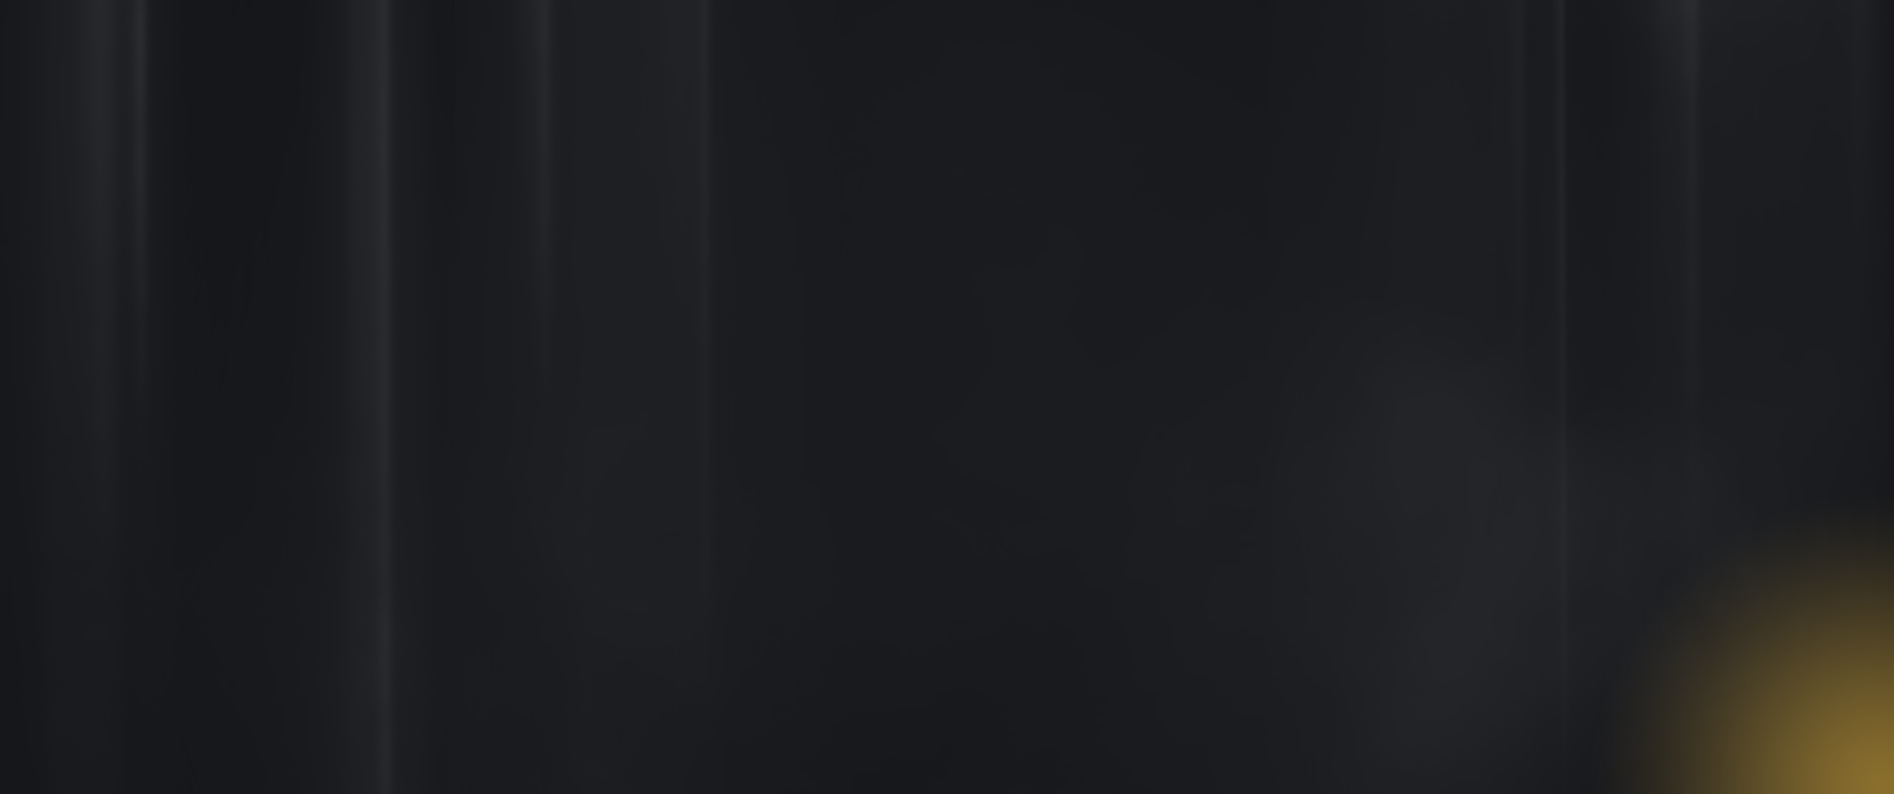
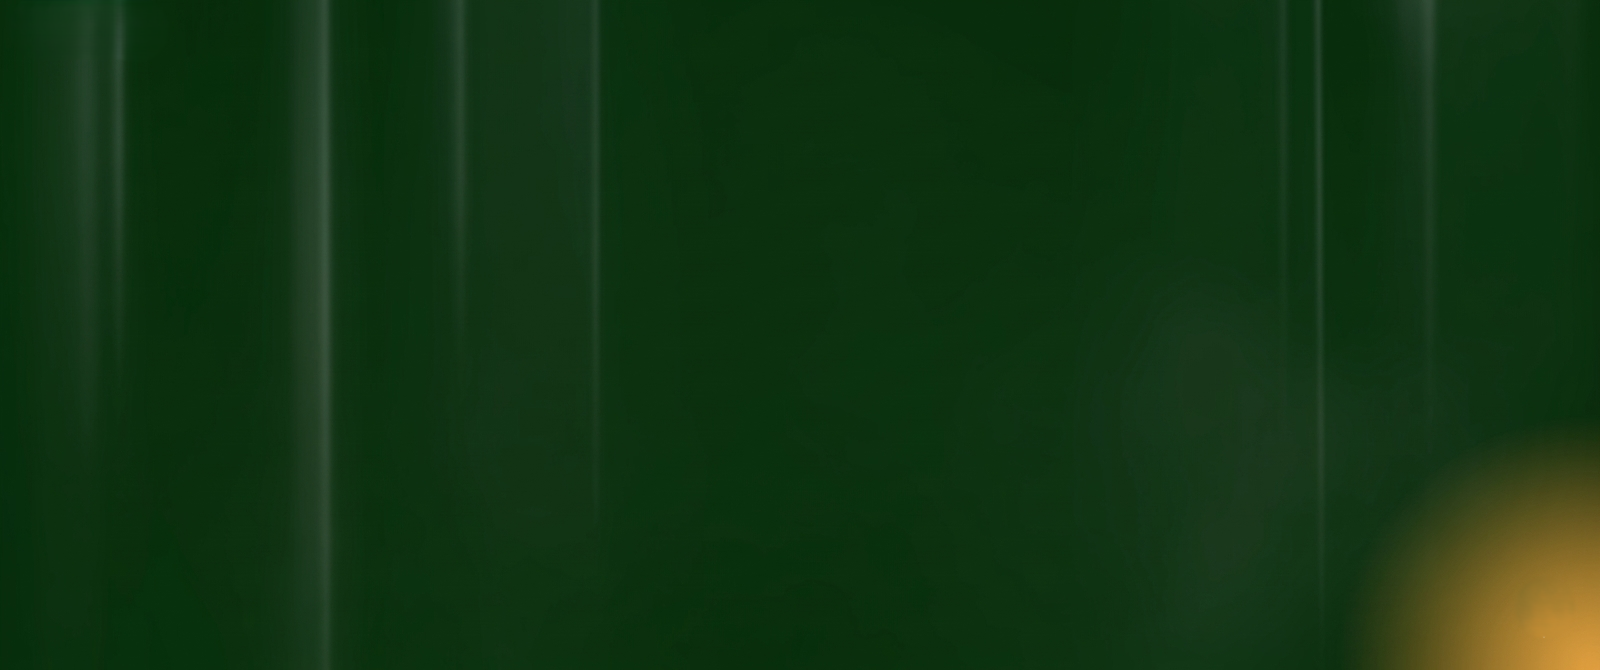
updated

diff --git a/index.html b/index.html
@@ -320,9 +320,10 @@
                         <div class="client-carousel__one cilox-owl__carousel owl-theme owl-carousel" data-owl-options='{
                         "items": 5,
                         "margin": 65,
-                        "smartSpeed": 700,
+                        "smartSpeed": 500,
                         "loop":true,
-                        "autoplay": false,
+                        "autoplay": true,
+                        "autoplayTimeout": 1000,
                         "nav":false,
                         "dots":false,
                         "navText": ["<span class=\"icon-left-arrow\"></span>","<span class=\"icon-right-arrow\"></span>"],
@@ -422,7 +423,7 @@
                                 </div>
 
                                 <h3 class="service-two-card__title">
-                                    <a href="campaigns.html">Government <br> Campaigns</a>
+                                    <a href="govtcampaigns.html">Government <br> Campaigns</a>
                                 </h3>
 
                                 <p class="service-two-card__text">
@@ -436,7 +437,7 @@
                                     <li><i class="fas fa-arrow-circle-right"></i> Policy Promotion & Department Campaigns</li>
                                 </ul>
 
-                                <a href="campaigns.html" class="cilox-btn">
+                                <a href="govtcampaigns.html" class="cilox-btn">
                                     <span class="cilox-btn__container">
                                         <span class="cilox-bt__text">Explore Service</span>
                                     </span>
@@ -522,7 +523,7 @@
                                             <div class="why-choose__item__icon">
                                                 <i class="icon-tick"></i>
                                             </div>
-                                            <h4 class="why-choose__item__title">Public Sector Campaign Expertise</h4>
+                                            <h4 class="why-choose__item__title">Public Sector Campaign </h4>
                                         </div>
                                         <p class="why-choose__item__text">
                                             We bring proven experience working across government departments, public sector
@@ -652,7 +653,7 @@
                                     </div>
                                     <div class="project-two__content__bottom">
                                         <span>Explore Campaign</span>
-                                        <a href="campaigns.html" class="cilox-btn__icon"><i class="icon-right-arrow"></i></a>
+                                        <a href="govtcampaigns.html" class="cilox-btn__icon"><i class="icon-right-arrow"></i></a>
                                     </div>
                                 </div>
                             </div>
@@ -863,13 +864,13 @@
                                         <li><a href="index.html">Home</a></li>
                                         <li><a href="about.html">About Us</a></li>
                                         <li><a href="services.html">Services</a></li>
-                                        <li><a href="campaigns.html">Campaigns</a></li>
+                                        <li><a href="govtcampaigns.html">Campaigns</a></li>
                                         <li><a href="tourism.html">Tourism</a></li>
                                     </ul>
 
                                     <ul class="list-unstyled footer-widget__links">
                                         <li><a href="contact.html">Contact</a></li>
-                                        <li><a href="campaigns.html">Government Campaigns</a></li>
+                                        <li><a href="govtcampaigns.html">Government Campaigns</a></li>
                                         <li><a href="tourism.html">Tourism Campaigns</a></li>
                                         <li><a href="contact.html">Let’s Talk</a></li>
                                     </ul>

diff --git a/assets/css/cilox.css b/assets/css/cilox.css
@@ -3355,7 +3355,7 @@ body.megamenu-popup-active .mobile-nav__content {
   right: 0;
   width: 304px;
   height: 223px;
-  background-color: var(--cilox-black, #18191c);
+  background-color: #08380e;
 }
 @media (max-width: 1199px) {
   .why-choose-one__thumb::after {
@@ -3459,7 +3459,7 @@ body.megamenu-popup-active .mobile-nav__content {
 }
 .why-choose-one .why-choose-one__list .why-choose__item .why-choose__item__text {
   font-size: 15px;
-  color: #75767a;
+  color: white;
   line-height: 1.733;
   text-align: left;
   margin: 0;
@@ -11731,7 +11731,7 @@ body.megamenu-popup-active .mobile-nav__content {
 .service-two-card__content {
   position: relative;
   z-index: 1;
-  background-color: var(--cilox-black, #18191c);
+  background-color: #08380e;
   padding: 50px;
   overflow: hidden;
 }
@@ -11769,7 +11769,6 @@ body.megamenu-popup-active .mobile-nav__content {
   font-size: 24px;
   color: var(--cilox-white, #fff);
   font-weight: bold;
-  text-transform: uppercase;
   line-height: 1.2;
   text-align: left;
   margin-bottom: 20px;
@@ -11793,7 +11792,7 @@ body.megamenu-popup-active .mobile-nav__content {
 }
 .service-two-card__text {
   font-size: 16px;
-  color: var(--cilox-text, #797b81);
+  color: white;
   line-height: 1.625;
   font-weight: 500;
   margin-bottom: 0;
@@ -11810,9 +11809,8 @@ body.megamenu-popup-active .mobile-nav__content {
   padding: 0 0px 0 30px;
   gap: 20px;
   font-size: 12px;
-  color: #797b81;
+  color: white;
   font-weight: bold;
-  text-transform: uppercase;
   line-height: 1.2;
 }
 .service-two-card .cilox-btn::after, .service-two-card .cilox-btn::before {
@@ -14445,7 +14443,7 @@ body.boxed-wrapper .page-wrapper {
 
 .trusted-sector__tagline {
     display: inline-block;
-    font-size: 14px;
+    font-size: 17px;
     font-weight: 700;
     text-transform: uppercase;
     letter-spacing: 0.1em;
@@ -14454,7 +14452,7 @@ body.boxed-wrapper .page-wrapper {
 }
 
 .trusted-sector__title {
-    font-size: 32px;
+    font-size: 30px;
     font-weight: 700;
     line-height: 1.15;
     text-transform: uppercase;
@@ -14538,7 +14536,7 @@ body.boxed-wrapper .page-wrapper {
     align-items: flex-start;
     gap: 10px;
     font-size: 15px;
-    color: var(--cilox-text, #797b81);
+    color: white;
     line-height: 1.7;
     margin-bottom: 10px;
     font-weight: 500;
